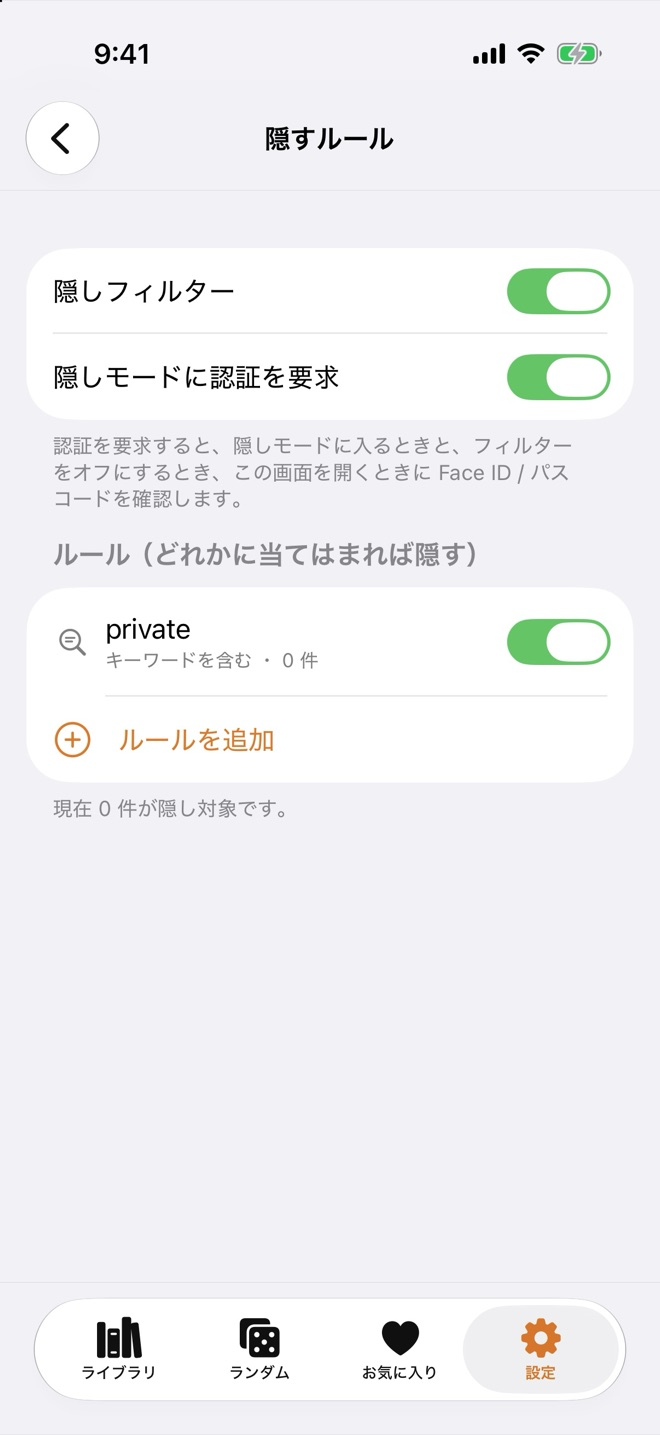
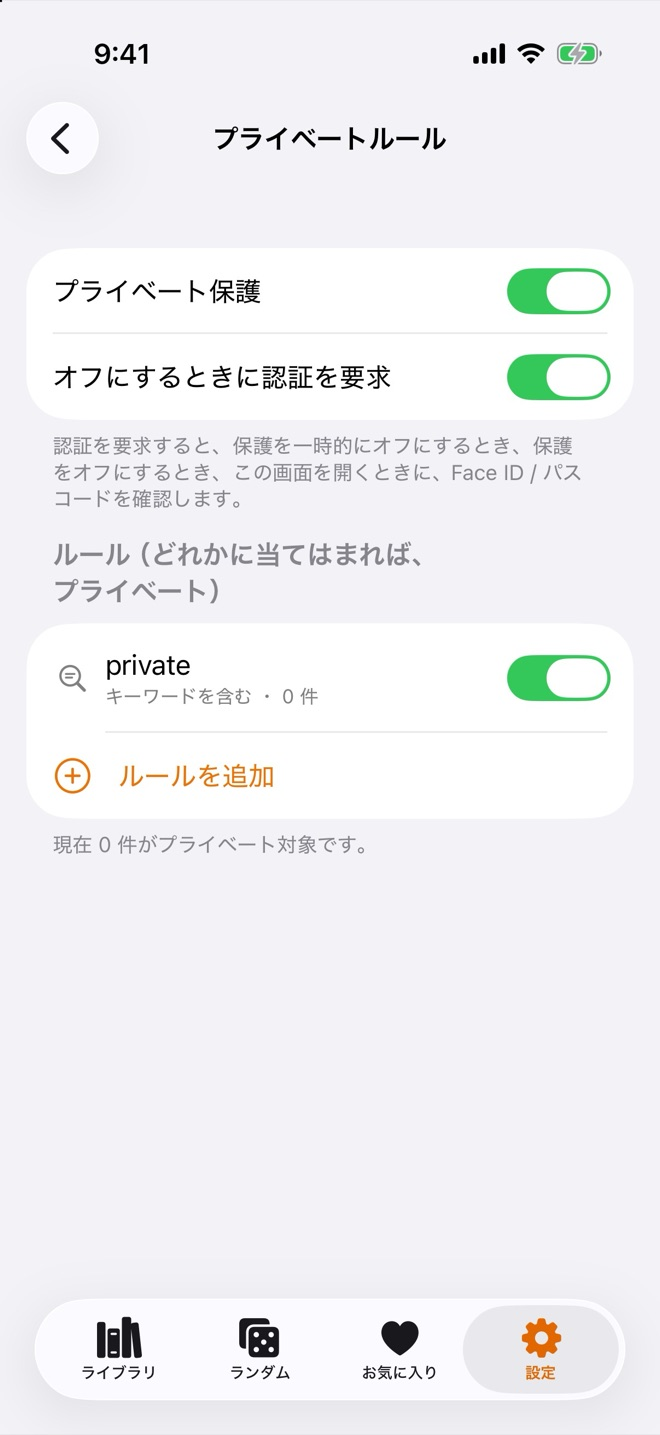
docs: 「プライベート保護」の名前に合わせて、LP とガイドを更新

diff --git a/index.html b/index.html
@@ -55,7 +55,7 @@
 
 <section>
   <div class="wrap">
-    <h2>見つける、思い出す、隠す。</h2>
+    <h2>見つける、思い出す、守る。</h2>
     <p class="section-lead">保存したものが増えても、困らないための機能を、ひとつずつ丁寧に。</p>
 
     <div class="feature">
@@ -87,11 +87,11 @@
 
     <div class="feature">
       <div>
-        <div class="tag">隠しフィルター</div>
+        <div class="tag">プライベート保護</div>
         <h3>見せたくない作品は、<br>ささっと隠す。</h3>
-        <p>ルールに当てはまる作品を、一覧やランダムから非表示に。見たいときだけ、Face ID で隠しモードに入れます。</p>
+        <p>ルールに当てはまる作品を、一覧・検索・ランダムから外します。見たいときだけ、Face ID で一時的にオフにできます（アプリを離れると元に戻ります）。</p>
       </div>
-      <div class="phone"><img src="assets/04-hide-rules.jpg" alt="隠すルールの設定画面" loading="lazy" width="660" height="1435"></div>
+      <div class="phone"><img src="assets/04-hide-rules.jpg" alt="プライベートルールの設定画面" loading="lazy" width="660" height="1435"></div>
     </div>
   </div>
 </section>

diff --git a/guide/index.html b/guide/index.html
@@ -215,7 +215,7 @@ code{background:var(--bg2);border:1px solid var(--line);border-radius:6px;paddin
     </details>
     <details>
       <summary>人に画面を見せるとき、見られたくない作品は？</summary>
-      <p>「隠しフィルター」で、ルールに当てはまる作品を、一覧・検索・ランダムから外せます。見たいときだけ、Face ID で「隠しモード」に入れます。</p>
+      <p>「プライベート保護」で、ルールに当てはまる作品を、一覧・検索・ランダムから外せます。見たいときだけ、Face ID で一時的にオフにできます（アプリを離れると元に戻ります）。アプリ切り替え画面を、ぼかしたり黒くしたりする設定もあります。</p>
     </details>
     <details>
       <summary>不具合や、ほしい機能があります</summary>
